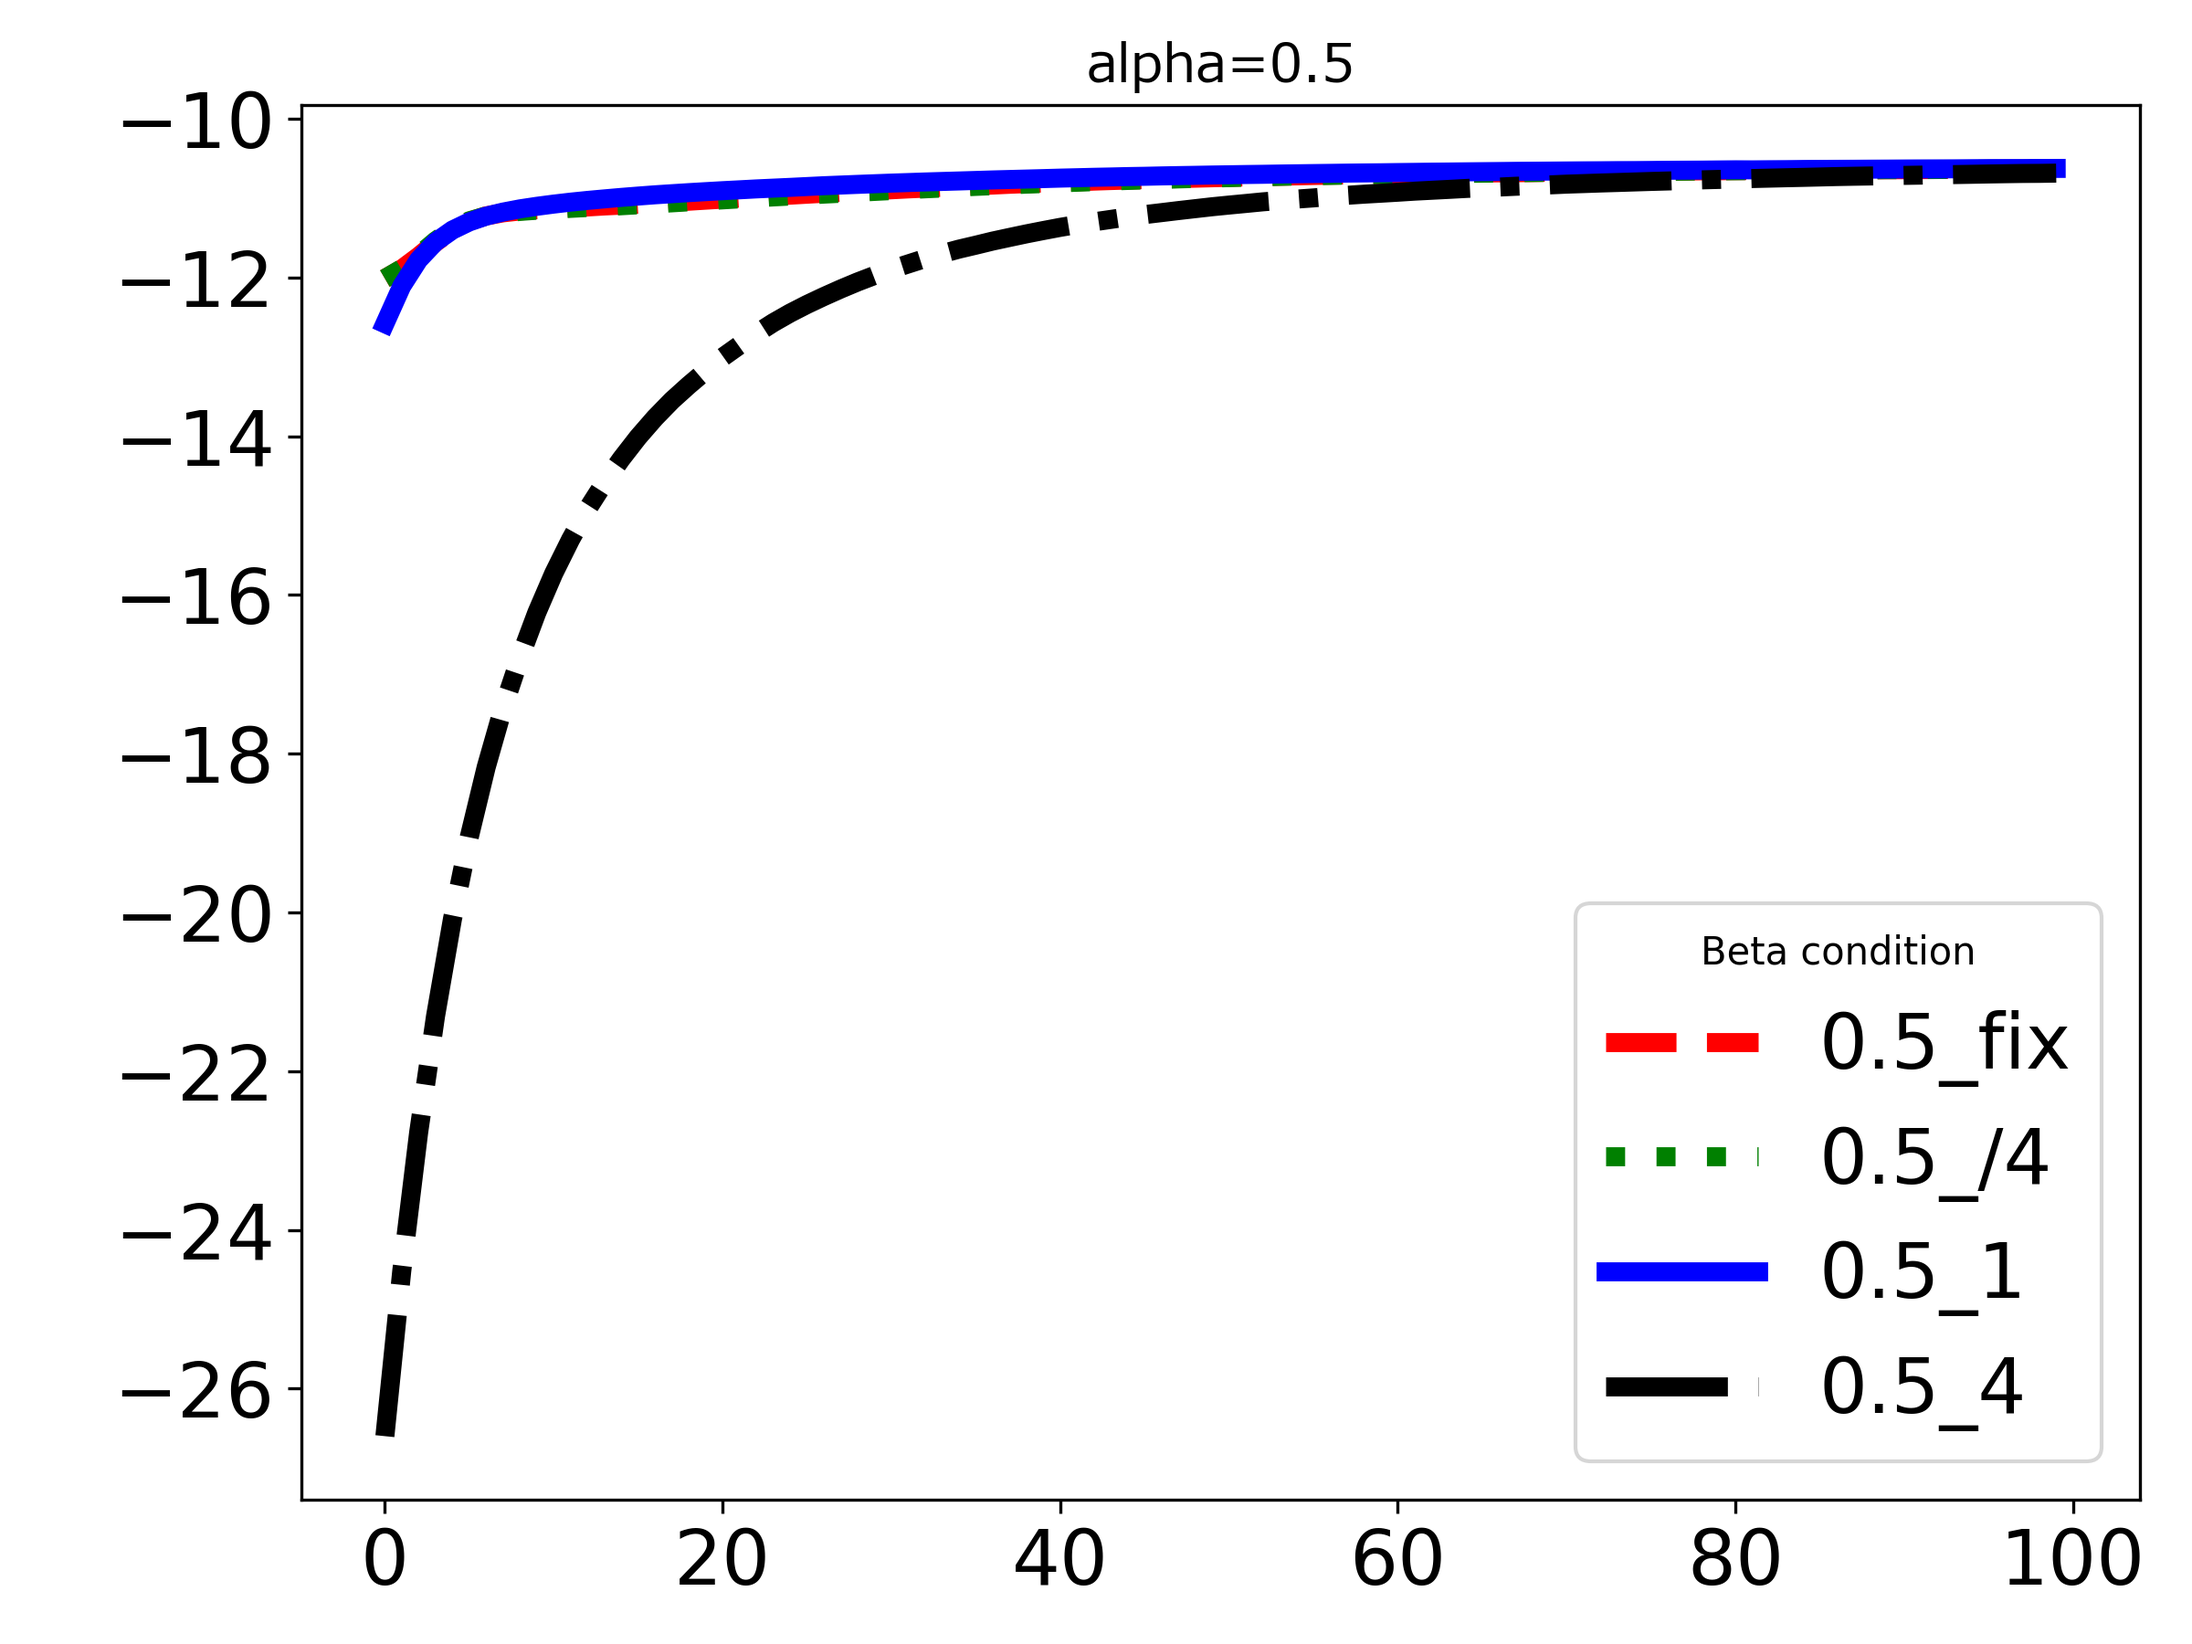
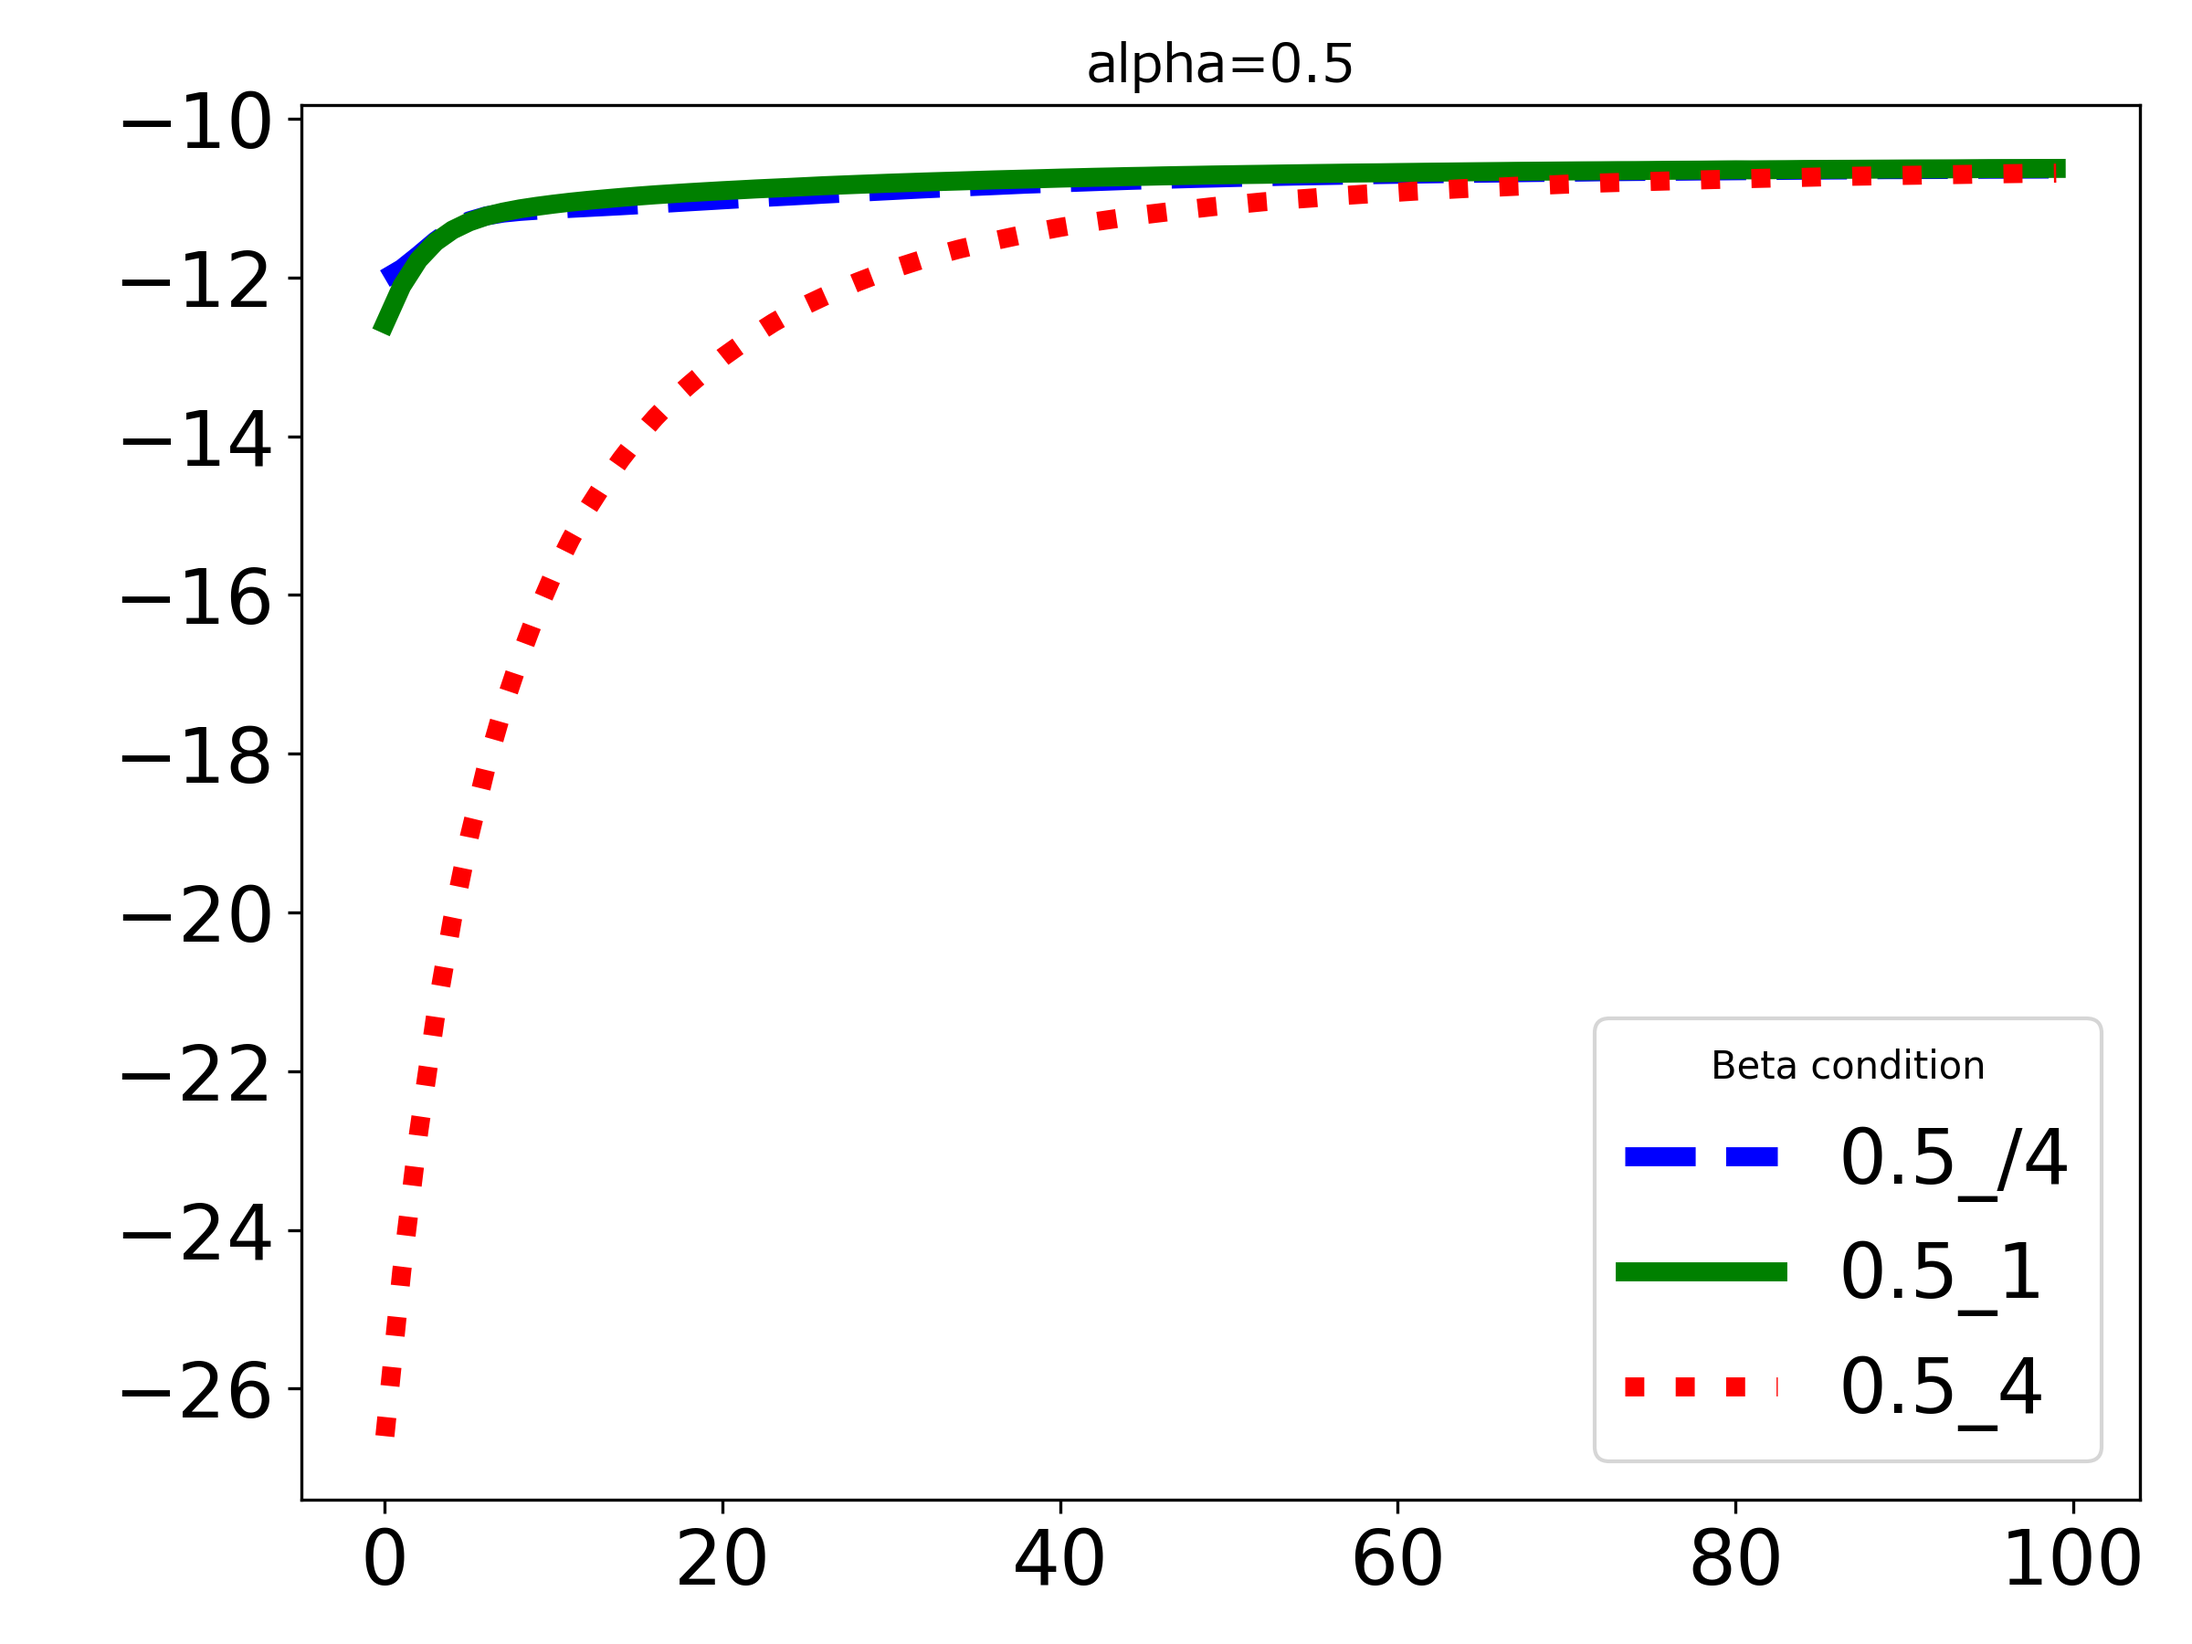
2026/11/21

diff --git a/DBRBM/train_DBRBM/training_DBRBM.py b/DBRBM/train_DBRBM/training_DBRBM.py
@@ -13,67 +13,67 @@ from sklearn.datasets import load_diabetes
 from sklearn.datasets import load_wine
 
 # 実験設定の記述（人工データ）
-# CONFIG = {
-#     "num_visible": 10, 
-#     "alpha_list": [0.5, 1.0, 2.0],
-#     "lerning_rate": 0.01,   # ← 少し大きめにして学習速度の差を開かせる
-#     "num_epochs": 100,      # ← 収束までの過程が見える程度の長さに
-#     "cd_k": 1,
-#     "batch_size": 32,       # ← 標準的なバッチサイズで勾配を安定させる
-#     "TRIALS": 50,           # ← 乱数によるブレを消すため、最低10回は平均をとる
-#     # 教師モデルの設定
-#     "num_samples": 1000,    # ← データ数を増やして真の分布を安定させる
-#     "burn_in_steps": 1000,
-#     "teacher_beta": 3.0,
-#     "teacher_bias_scale": 0.5,
-#     "output_path": "results_toy_2.csv", 
-#     "update_method": "sgd" #"exact" or "adam" or "sgd"
-# }
+CONFIG = {
+    "num_visible": 10, 
+    "alpha_list": [0.5, 1.0, 2.0],
+    "lerning_rate": 0.01,   # ← 少し大きめにして学習速度の差を開かせる
+    "num_epochs": 100,      # ← 収束までの過程が見える程度の長さに
+    "cd_k": 1,
+    "batch_size": 32,       # ← 標準的なバッチサイズで勾配を安定させる
+    "TRIALS": 200,           # ← 乱数によるブレを消すため、最低10回は平均をとる
+    # 教師モデルの設定
+    "num_samples": 1000,    # ← データ数を増やして真の分布を安定させる
+    "burn_in_steps": 1000,
+    "teacher_beta": 3.0,
+    "teacher_bias_scale": 0.5,
+    "output_path": "results_toy_3.csv", 
+    "update_method": "sgd" #"exact" or "adam" or "sgd"
+}
 
 # if CONFIG["update_method"] == "exact":
 #     CONFIG["batch_size"] = CONFIG["num_samples"]  # exact法では、全データを使うためバッチサイズはデータ数と同じにする
 
 
-train_data = load_diabetes()  # データセットをロード
-# train_data = load_wine()
-X = train_data.data
-Y = train_data.target
-print("train_data.data.shape", X.shape)
-print("train_data.target.shape", Y.shape)
+# train_data = load_diabetes()  # データセットをロード
+# # train_data = load_wine()
+# X = train_data.data
+# Y = train_data.target
+# print("train_data.data.shape", X.shape)
+# print("train_data.target.shape", Y.shape)
 
-X = pd.DataFrame(X)  # データをDataFrameに変換
-Y = pd.DataFrame(Y)  # ターゲットをDataFrameに変換
-df = pd.concat([X,Y], axis=1)
-print("train_data.shape", df.shape)
-print(df.head()) #先頭から5行を表示
+# X = pd.DataFrame(X)  # データをDataFrameに変換
+# Y = pd.DataFrame(Y)  # ターゲットをDataFrameに変換
+# df = pd.concat([X,Y], axis=1)
+# print("train_data.shape", df.shape)
+# print(df.head()) #先頭から5行を表示
 
-print("columns", len(df.columns))
-print("rows", len(df))
-# 実験設定（実データ）
-CONFIG = {
-    "num_visible": len(df.columns), 
-    "alpha_list": [0.5, 1.0, 2.0],
-    "lerning_rate": 0.01,   # ← 少し大きめにして学習速度の差を開かせる
-    "num_epochs":100,      # ← 収束までの過程が見える程度の長さに
-    "cd_k": 1,
-    "batch_size": 16,       # ← 標準的なバッチサイズで勾配を安定させる
-    "TRIALS": 50,         # ← 乱数によるブレを消すため、最低10回は平均をとる
-    # 教師モデルの設定
-    "num_samples": len(df),    # ← データ数を増やして真の分布を安定させる
-    "burn_in_steps": 1000,
-    # "teacher_beta": 3.0,
-    # "teacher_bias_scale": 0.5,
-    "output_path": "results_diabetes_2.csv",
-    "update_method": "sgd"  # 勾配更新方法を指定（"sgd" または "adam"）
-}
+# print("columns", len(df.columns))
+# print("rows", len(df))
+# # 実験設定（実データ）
+# CONFIG = {
+#     "num_visible": len(df.columns), 
+#     "alpha_list": [0.5, 1.0, 2.0],
+#     "lerning_rate": 0.01,   # ← 少し大きめにして学習速度の差を開かせる
+#     "num_epochs":100,      # ← 収束までの過程が見える程度の長さに
+#     "cd_k": 1,
+#     "batch_size": 16,       # ← 標準的なバッチサイズで勾配を安定させる
+#     "TRIALS": 50,         # ← 乱数によるブレを消すため、最低10回は平均をとる
+#     # 教師モデルの設定
+#     "num_samples": len(df),    # ← データ数を増やして真の分布を安定させる
+#     "burn_in_steps": 1000,
+#     # "teacher_beta": 3.0,
+#     # "teacher_bias_scale": 0.5,
+#     "output_path": "results_diabetes_2.csv",
+#     "update_method": "sgd"  # 勾配更新方法を指定（"sgd" または "adam"）
+# }
 
 #可視変数はalphaの値によって変わるので、alphaの関数として記述している？
 #main文で、num_hidden = CONFIG["num_hidden"](alpha) のように使用する。
 CONFIG["num_hidden"] = lambda alpha: int(CONFIG["num_visible"] * alpha)  # 隠れ変数の数は可視変数の数＊alpha
 
 CONFIG["beta_max"] = [
-    # 1.66967 if alpha == 0.5 else
-    1.68779 if alpha == 0.5 else #diabetesデータセット使用時は可視変数が奇数になるので、転移点が少しずれる
+    1.66967 if alpha == 0.5 else
+    # 1.68779 if alpha == 0.5 else #diabetesデータセット使用時は可視変数が奇数になるので、転移点が少しずれる
     1.59095 if alpha == 1.0 else
     1.60357 if alpha == 2.0 else
     None
@@ -362,9 +362,9 @@ epochs = CONFIG["num_epochs"]
 results_dict = {"epoch": np.arange(epochs)}
 
 # # データを3値化（-1, 0, 1）する
-df = df.apply(discretize_to_ternary)
-df = df.values  # DataFrameをNumPy配列に変換
-print(df[:, 1])
+# df = df.apply(discretize_to_ternary)
+# df = df.values  # DataFrameをNumPy配列に変換
+# print(df[:, 1])
 # print(df)
 
 
@@ -403,8 +403,8 @@ for alpha, beta in zip(CONFIG["alpha_list"], CONFIG["beta_max"]):
 
         for trial in range(CONFIG["TRIALS"]):
             print("\ntrial ", trial, end="")
-            # train_data = generate_train_data()
-            train_data = df
+            train_data = generate_train_data()
+            # train_data = df
             model = DBRBM(
                 num_visible=CONFIG["num_visible"],
                 num_hidden=CONFIG["num_hidden"](alpha),

diff --git a/DBRBM/train_DBRBM/plot.py b/DBRBM/train_DBRBM/plot.py
@@ -7,17 +7,15 @@ df = pd.read_csv('results_diabetes_2.csv', skiprows=1)
 # x軸のデータ（1列目: 'epoch'）を取得
 x = df['epoch']
 
+# mode選択
+mode = "3" # "4" , "3" , "2"
+
 # グラフを描画するための設定 (3つのalphaについてループで処理)
 alpha_values = [0.5, 1.0, 2.0]
 
 # グラフの描画設定
 linewidth = 5
 labelsize = 20
-# line_style = ["--", "-", ":"]
-line_style = ["--", ":", "-", "-."]
-
-# line_color = ["k", "b", "gray"]
-line_color = ["r", "g", "b", "k"]
 
 for i, alpha in enumerate(alpha_values):
     # 各alphaに対応する列のインデックスを計算
@@ -27,9 +25,26 @@ for i, alpha in enumerate(alpha_values):
     col_start = i * 4 + 1
     col_end = col_start + 4
     
-    # 描画対象の列名を取得
-    y_cols = df.columns[col_start:col_end]
-    
+    if mode == "4":
+        line_style = [ "-.", "--", "-", ":"]
+        line_color = ["k", "b", "g", "r"]
+        # 描画対象の列名を取得
+        y_cols = df.columns[col_start:col_end]
+
+    elif mode == "3":
+        line_style = ["--", "-", ":"]
+        line_color = ["b", "g", "r"]
+        # 描画対象の列名を取得し、'fix' を含む列を除外する
+        y_cols = [c for c in df.columns[col_start:col_end] if "fix" not in c]
+
+    else :
+        line_style = [ "-.", "-"]
+        line_color = ["k", "g"]
+        # 抽出したい2つのキーワードを指定（例として "A", "B" にしています）
+        keywords = ["_fix", "_1"]
+        # 各alphaの範囲の列から、keywordsのいずれかを含む列だけを抽出
+        y_cols = [c for c in df.columns[col_start:col_end] if any(k in c for k in keywords)]
+
     # 新しいキャンバス（画像）を作成
     fig, ax = plt.subplots(figsize=(8, 6))
     

diff --git a/DBRBM/LC_DBRBM/transition.py b/DBRBM/LC_DBRBM/transition.py
@@ -29,4 +29,4 @@ def find_transition_point(t, alpha):
     return sol.root
 
 # テスト実行
-print(f"t=2, alpha=0.45454545 の転移点 beta_c: {find_transition_point(2, 0.45454545):.5f}")
+print(f"t=2, alpha=1.0 の転移点 beta_c: {find_transition_point(2, 1.0):.5f}")
